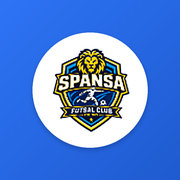
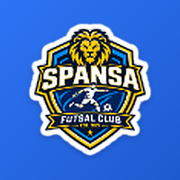
Add files via upload

diff --git a/public/sw.js b/public/sw.js
@@ -1,4 +1,4 @@
-const CACHE = 'sfc-shell-v3';
+const CACHE = 'sfc-shell-v5';
 self.addEventListener('install', () => { self.skipWaiting(); });
 self.addEventListener('activate', (e) => {
   e.waitUntil(caches.keys().then((keys) => Promise.all(keys.filter((k) => k !== CACHE).map((k) => caches.delete(k)))).then(() => self.clients.claim()));

diff --git a/PANDUAN.md b/PANDUAN.md
@@ -119,3 +119,12 @@ Hak akses (Security Rules): admin penuh; anggota hanya membaca data dirinya (ang
 - Ikon saat aplikasi dipasang (Add to Home Screen) kini memakai logo Spansa Futsal Club: lingkaran putih di atas latar biru, kotak bersudut membulat. File: `public/icon-192.png`, `icon-512.png`, `icon-maskable-192.png`, `icon-maskable-512.png`, `apple-touch-icon.png`, `favicon-64.png`.
 - Ikon lama tersimpan di cache perangkat. Agar berganti, **hapus aplikasi yang sudah terpasang lalu pasang ulang** (di Android kadang butuh beberapa menit; di iPhone hapus ikon lalu "Tambah ke Layar Utama" lagi).
 - Untuk hasil paling tajam, ikon bisa dibuat ulang dari file logo asli beresolusi tinggi (PNG transparan, minimal 512 px).
+
+## Pembaruan v9 — ikon lebih jelas
+- Lingkaran putih pada ikon dihapus. Logo Spansa kini sebesar lingkaran putih sebelumnya dan diberi list putih di sekeliling tepinya, di atas latar biru bersudut membulat.
+- Ikon versi maskable (Android) dan apple-touch-icon dibuat dengan logo sedikit lebih kecil agar tidak terpotong oleh bentuk ikon bulat/squircle di HP.
+- Hapus aplikasi yang sudah terpasang lalu pasang ulang agar ikon baru tampil.
+
+## Pembaruan v10 — logo ikon diperbesar
+- Logo pada semua ikon aplikasi diperbesar menjadi 110% dari ukuran sebelumnya (list putih tetap). Versi maskable Android diuji tetap berada di dalam zona aman sehingga tidak terpotong pada ikon bulat/squircle.
+- Hapus aplikasi yang sudah terpasang lalu pasang ulang agar ikon baru tampil.
